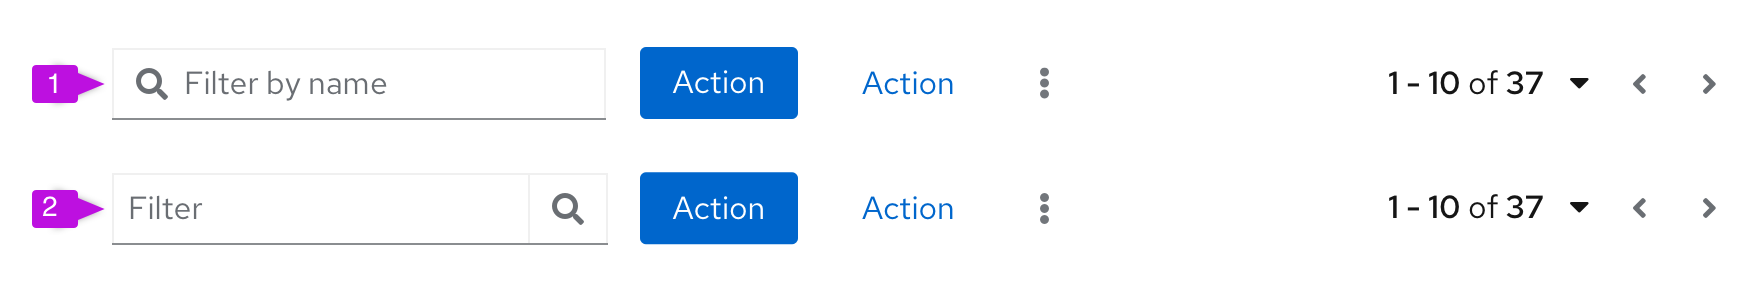
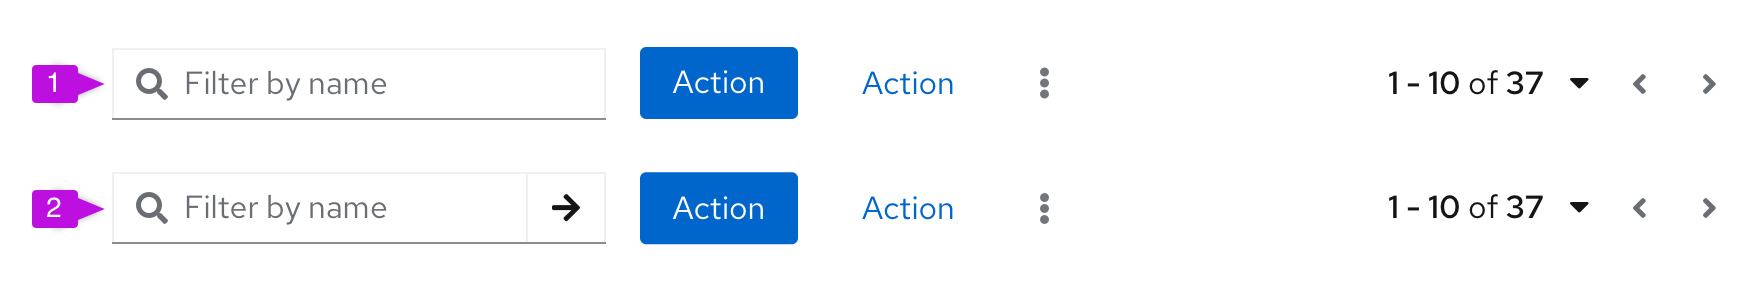
search input update

diff --git a/packages/v4/src/content/design-guidelines/usage-and-behavior/filters/filters.md b/packages/v4/src/content/design-guidelines/usage-and-behavior/filters/filters.md
@@ -33,12 +33,12 @@ Filters consisting of multiple attributes include:
 There are various ways to allow users to filter down content. Filtering methods include [text entry filters](#text-entry-filters), [single selects](#single-select) and [checkbox selects](#checkbox-select).
 
 ### Text entry filters
-A text entry filter provides the user with an input field to type in values that filter the view, whether or not their input is an exact match. There are two types of basic filters: One uses a [search input](/components/search-input) component, the other uses an [input group](/components/input-group) component.
+A text entry filter provides the user with an input field to type in values that filter the view, whether or not their input is an exact match. The text entry filter uses the [search input](/components/search-input) component which can be used with and without a button. 
 
 <img src="./img/text-input.png" alt="text input filters" width="880"/>
 
-1. **Search input:** Filters automatically, as soon as the user starts typing.
-2. **Input group:** Filters on enter, or click of search button.
+1. **Basic search input:** Filters automatically, as soon as the user starts typing.
+2. **Search input with button:** Filters on enter, or click of arrow button.
 
 Note, the placeholder text in your text entry filter should indicate what the user can filter on. If the inputted string is constrained to filter a **single column**, the placeholder text of the input field should read “Filter by _attribute name_”. If the inputted string filters **all columns**, the placeholder text of the input field should read “Filter” instead.
 
